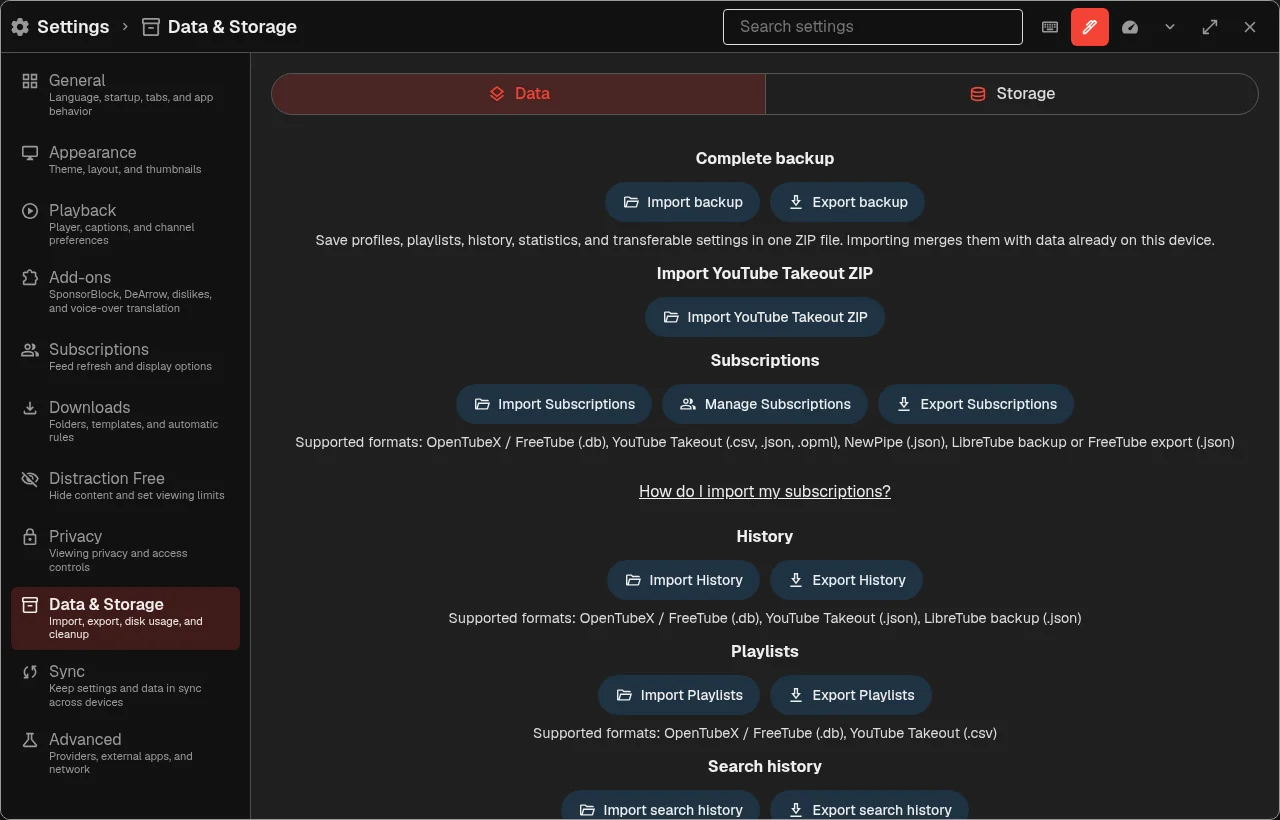
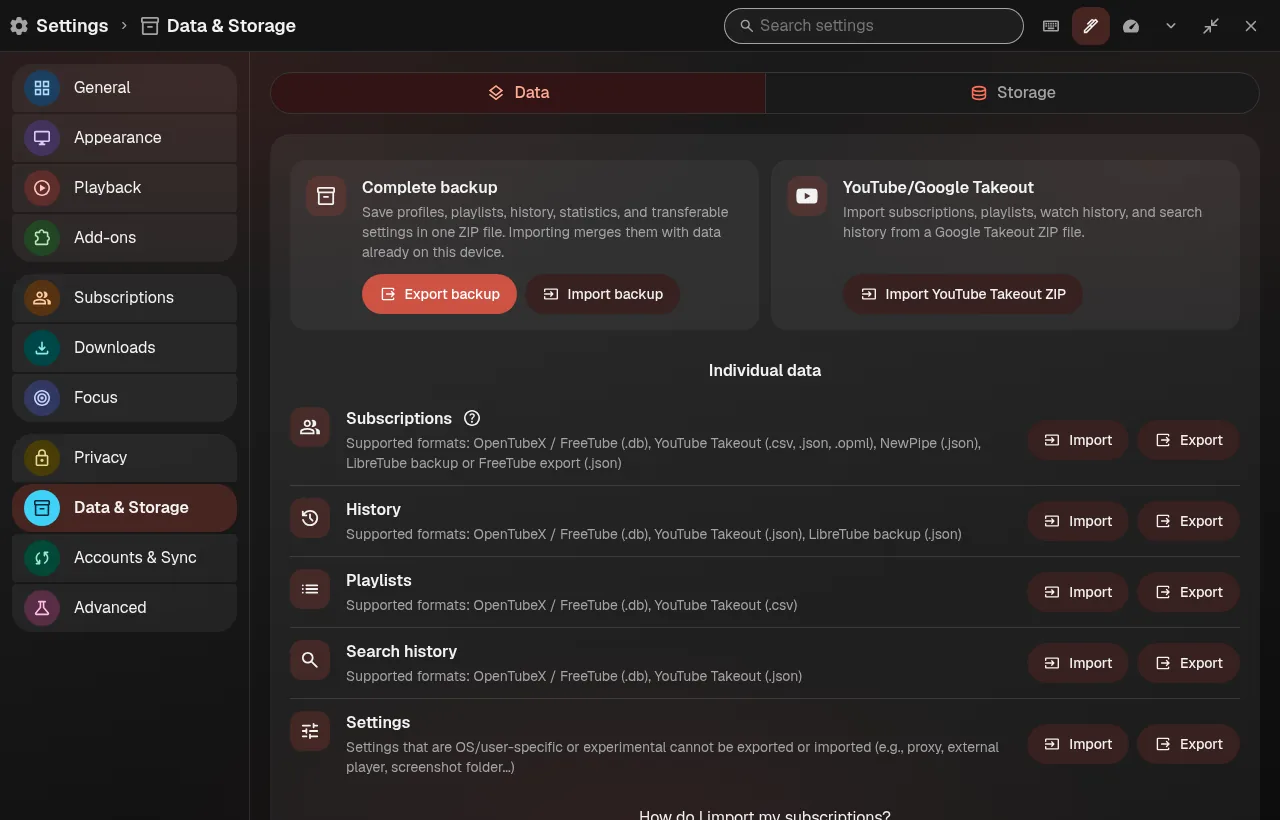
docs(importing): describe the reorganized Data settings
Data settings now list each kind of data as a row with its own Import and
Export buttons, so the guides no longer name buttons such as Import
Subscriptions. The Data settings screenshots show the new layout.

diff --git a/src/content/guides/importing.md b/src/content/guides/importing.md
@@ -9,20 +9,20 @@ icon: lucide:database-backup
 
 1. Open your profile menu and select **All settings**.
 2. Select **Data & Storage**.
-3. Open the **Data** tab. Choose **Export backup** or **Import backup** for one OpenTubeX ZIP, an action for an individual file, or **Import YouTube Takeout ZIP** for a downloaded YouTube archive.
+3. Open the **Data** tab. Choose **Export backup** or **Import backup** for one OpenTubeX ZIP, or **Import YouTube Takeout ZIP** for a downloaded YouTube archive. For an individual file, use the **Import** and **Export** buttons in the matching row under **Individual data**.
 
 <picture>
   <source data-shot-theme="dark" media="(prefers-color-scheme: dark)" srcset="/docs-images/data-dark.webp" type="image/webp" />
   <source data-shot-theme="light" media="(prefers-color-scheme: light)" srcset="/docs-images/data-light.webp" type="image/webp" />
-  <img src="/docs-images/data-light.webp" alt="Data settings with unified backup controls, a YouTube Takeout ZIP import button, and individual import and export actions." width="1280" height="820" loading="lazy" decoding="async" />
+  <img src="/docs-images/data-light.webp" alt="Data settings with Complete backup and YouTube/Google Takeout tiles above a list of data types, each with Import and Export buttons." width="1280" height="820" loading="lazy" decoding="async" />
 </picture>
 
-*Desktop Data settings. Import a YouTube Takeout ZIP directly, or choose an action for an individual file.*
+*Desktop Data settings. Back up everything or import a YouTube Takeout ZIP at the top, or import and export one kind of data in the list below.*
 
 ## Import subscriptions
 
 1. Export subscriptions from your previous app. For YouTube, request a YouTube data export through [Google Takeout](https://takeout.google.com/), including subscriptions.
-2. Select **Import Subscriptions** and choose the individual file. For Takeout, extract `subscriptions/subscriptions.csv` from the ZIP first, or use **Import YouTube Takeout ZIP** to select the archive, choose the categories to import, select **Preview changes**, then **Import selected data**.
+2. In the **Subscriptions** row, select **Import** and choose the individual file. For Takeout, extract `subscriptions/subscriptions.csv` from the ZIP first, or use **Import YouTube Takeout ZIP** to select the archive, choose the categories to import, select **Preview changes**, then **Import selected data**.
 3. Wait for the import result. Open **Subscriptions**, check the active profile, and refresh the feed.
 
 Supported subscription formats include OpenTubeX / FreeTube **.db**, YouTube Takeout **.csv**, **.json**, or **.opml**, NewPipe **.json**, and LibreTube backup or FreeTube export **.json**. A JSON file must contain the expected export data; renaming a different file does not convert it.
@@ -41,14 +41,14 @@ The [client comparison](/compare/#import) lists the FreeTube data that OpenTubeX
 
 In FreeTube, open **Settings → Data** and export your subscriptions, history, playlists, and search history in FreeTube format. Each export is a .db file that you can import into OpenTubeX with the matching action.
 
-You can also import the files from FreeTube's data folder directly. Choose the file that matches each action:
+You can also import the files from FreeTube's data folder directly. Select **Import** in each row and choose the file that matches it:
 
-| OpenTubeX action | FreeTube file |
+| OpenTubeX row | FreeTube file |
 | --- | --- |
-| **Import Subscriptions** | `profiles.db` |
-| **Import History** | `history.db` |
-| **Import Playlists** | `playlists.db` |
-| **Import search history** | `search-history.db` |
+| **Subscriptions** | `profiles.db` |
+| **History** | `history.db` |
+| **Playlists** | `playlists.db` |
+| **Search history** | `search-history.db` |
 
 Do not choose `subscription-cache.db`. It only stores the videos and posts FreeTube last loaded for your subscription feed, not the channels you follow.
 
@@ -63,11 +63,11 @@ Quit FreeTube before you choose or copy these files. Until it quits, they can st
 
 ## Import history or playlists
 
-1. In the Data tab, choose **Import History**, **Import Playlists**, or **Import search history**.
+1. In the Data tab, select **Import** in the **History**, **Playlists**, or **Search history** row.
 2. Select the matching exported file and wait for the result.
 3. Open the corresponding library page to check the imported entries.
 
-**History** accepts OpenTubeX / FreeTube .db, YouTube Takeout .json, and LibreTube backup .json. **Search history** accepts OpenTubeX / FreeTube .db and YouTube Takeout .json. **Import Playlists** accepts OpenTubeX / FreeTube .db exports and individual YouTube Takeout playlist .csv files. Use **Import YouTube Takeout ZIP** for multiple Takeout playlists together.
+**History** accepts OpenTubeX / FreeTube .db, YouTube Takeout .json, and LibreTube backup .json. **Search history** accepts OpenTubeX / FreeTube .db and YouTube Takeout .json. **Playlists** accepts OpenTubeX / FreeTube .db exports and individual YouTube Takeout playlist .csv files. Use **Import YouTube Takeout ZIP** for multiple Takeout playlists together.
 
 If imported history has missing details or incorrect LIVE labels, use [Repair History](/docs/troubleshooting/#repair-imported-history).
 
@@ -77,7 +77,7 @@ If imported history has missing details or incorrect LIVE labels, use [Repair Hi
 2. Choose the categories to include, select **Export selected data**, then save the ZIP file in a backup location you can find on your other device.
 3. On that device, select **Import backup** and choose the ZIP. OpenTubeX offers only the categories the ZIP contains and previews how many items are new, already present, or skipped. Select the categories to import, then **Import selected data**.
 
-The ZIP contains separate JSON files for the selected categories: profiles and subscriptions, playlists, watch history, search history, watch statistics, and transferable settings. All categories are selected by default. Importing merges the selected categories with data already on the device; records with matching IDs or dates are updated. You can still export or import individual categories using the separate actions.
+The ZIP contains separate JSON files for the selected categories: profiles and subscriptions, playlists, watch history, search history, watch statistics, and transferable settings. All categories are selected by default. Importing merges the selected categories with data already on the device; records with matching IDs or dates are updated. You can still export or import individual categories from their rows under **Individual data**.
 
 The ZIP does not include open tab sessions or the entire application profile. Transferable settings omit device-specific options and sync credentials, such as proxy configuration, external-player paths, screenshot folders, and the sync privacy key. Configure sync separately on the other device using the [sync setup guide](/docs/sync/).
 

diff --git a/src/content/guides/google-takeout.md b/src/content/guides/google-takeout.md
@@ -64,7 +64,7 @@ You do not need to upload the archive to another website. Creating an export doe
 <picture>
   <source data-shot-theme="dark" media="(prefers-color-scheme: dark)" srcset="/docs-images/data-dark.webp" type="image/webp" />
   <source data-shot-theme="light" media="(prefers-color-scheme: light)" srcset="/docs-images/data-light.webp" type="image/webp" />
-  <img src="/docs-images/data-light.webp" alt="OpenTubeX Data settings showing Import YouTube Takeout ZIP and separate data import actions." width="1280" height="820" loading="lazy" decoding="async" />
+  <img src="/docs-images/data-light.webp" alt="OpenTubeX Data settings showing the YouTube/Google Takeout tile with Import YouTube Takeout ZIP, and a list of data types with their own Import buttons." width="1280" height="820" loading="lazy" decoding="async" />
 </picture>
 
 *Choose Import YouTube Takeout ZIP to select the archive directly.*
@@ -73,10 +73,10 @@ You do not need to upload the archive to another website. Creating an export doe
 
 1. Extract the downloaded ZIP and open `Takeout/YouTube and YouTube Music/`. Exports in other languages use translated folder and file names, so select the translated equivalents of the paths in step 3.
 2. In OpenTubeX, open **Settings → Data & Storage → Data**.
-3. Choose **Import Subscriptions** for `subscriptions/subscriptions.csv`, **Import History** for `history/watch-history.json`, or **Import search history** for `history/search-history.json`.
+3. Under **Individual data**, select **Import** in the **Subscriptions** row for `subscriptions/subscriptions.csv`, in the **History** row for `history/watch-history.json`, or in the **Search history** row for `history/search-history.json`.
 4. Check the imported data and refresh the subscription feed.
 
-For a Takeout playlist CSV, choose **Import Playlists** and select an individual file in `playlists/`, or use ZIP import for several playlists together.
+For a Takeout playlist CSV, select **Import** in the **Playlists** row and select an individual file in `playlists/`, or use ZIP import for several playlists together.
 
 ## If something is missing
 

diff --git a/src/content/guides/profiles.md b/src/content/guides/profiles.md
@@ -72,4 +72,4 @@ Once a group exists, the **New Group** and **Edit Group** buttons appear next to
 
 ## Back up profiles
 
-Use **Settings → Data & Storage → Data → Export Subscriptions → Export OpenTubeX**. That format preserves profile information for importing on another OpenTubeX installation. Subscription groups and the custom channel order are settings, so the subscriptions export leaves them out. Use **Export Settings**, or **Export backup** with the settings category selected, to keep them. See [Back up your library](/docs/importing/#back-up-your-library).
+In **Settings → Data & Storage → Data**, select **Export** in the **Subscriptions** row, then **Export OpenTubeX**. That format preserves profile information for importing on another OpenTubeX installation. Subscription groups and the custom channel order are settings, so the subscriptions export leaves them out. Use **Export** in the **Settings** row, or **Export backup** with the settings category selected, to keep them. See [Back up your library](/docs/importing/#back-up-your-library).

diff --git a/src/content/extra-features.md b/src/content/extra-features.md
@@ -1415,7 +1415,7 @@ preview new, existing, and skipped records and see which data will merge or be
 replaced. Playlist titles and descriptions are preserved without Takeout's
 export-file suffixes. Exports in any language are recognized.
 
-**Import Playlists** also accepts several Takeout playlist CSVs at once. Pick
+The playlist import in Data settings also accepts several Takeout playlist CSVs at once. Pick
 `playlists.csv` with them to keep their original titles and descriptions. You
 can also import subscriptions and watch history from
 [LibreTube](https://github.com/libre-tube/LibreTube).
